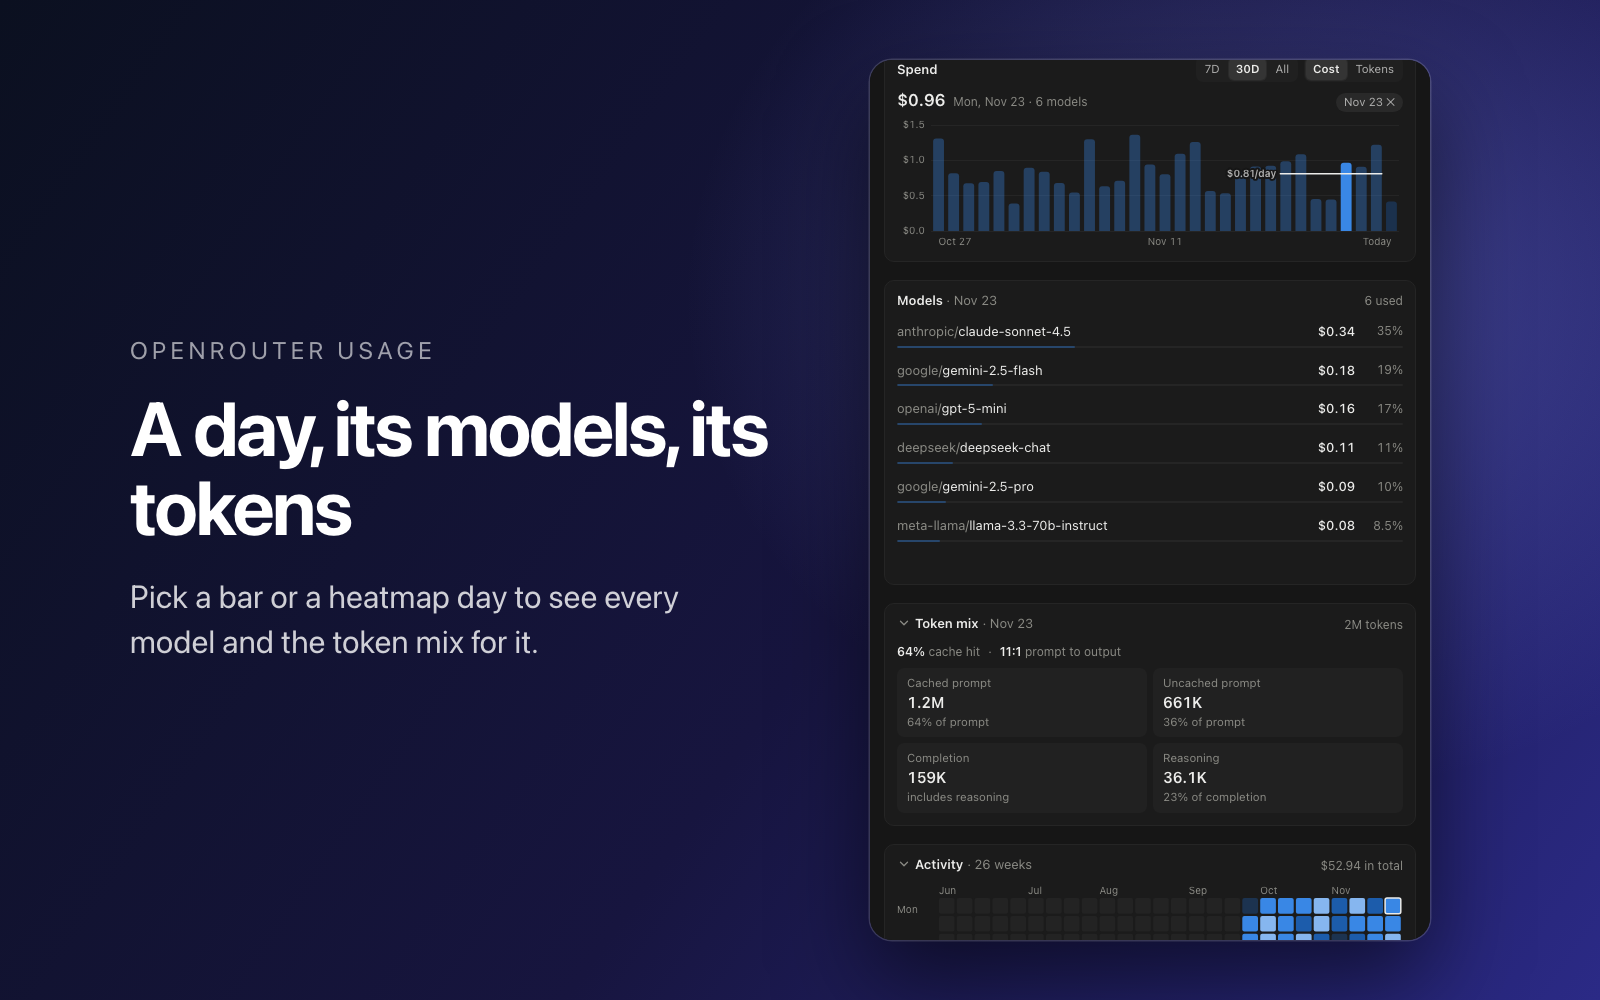
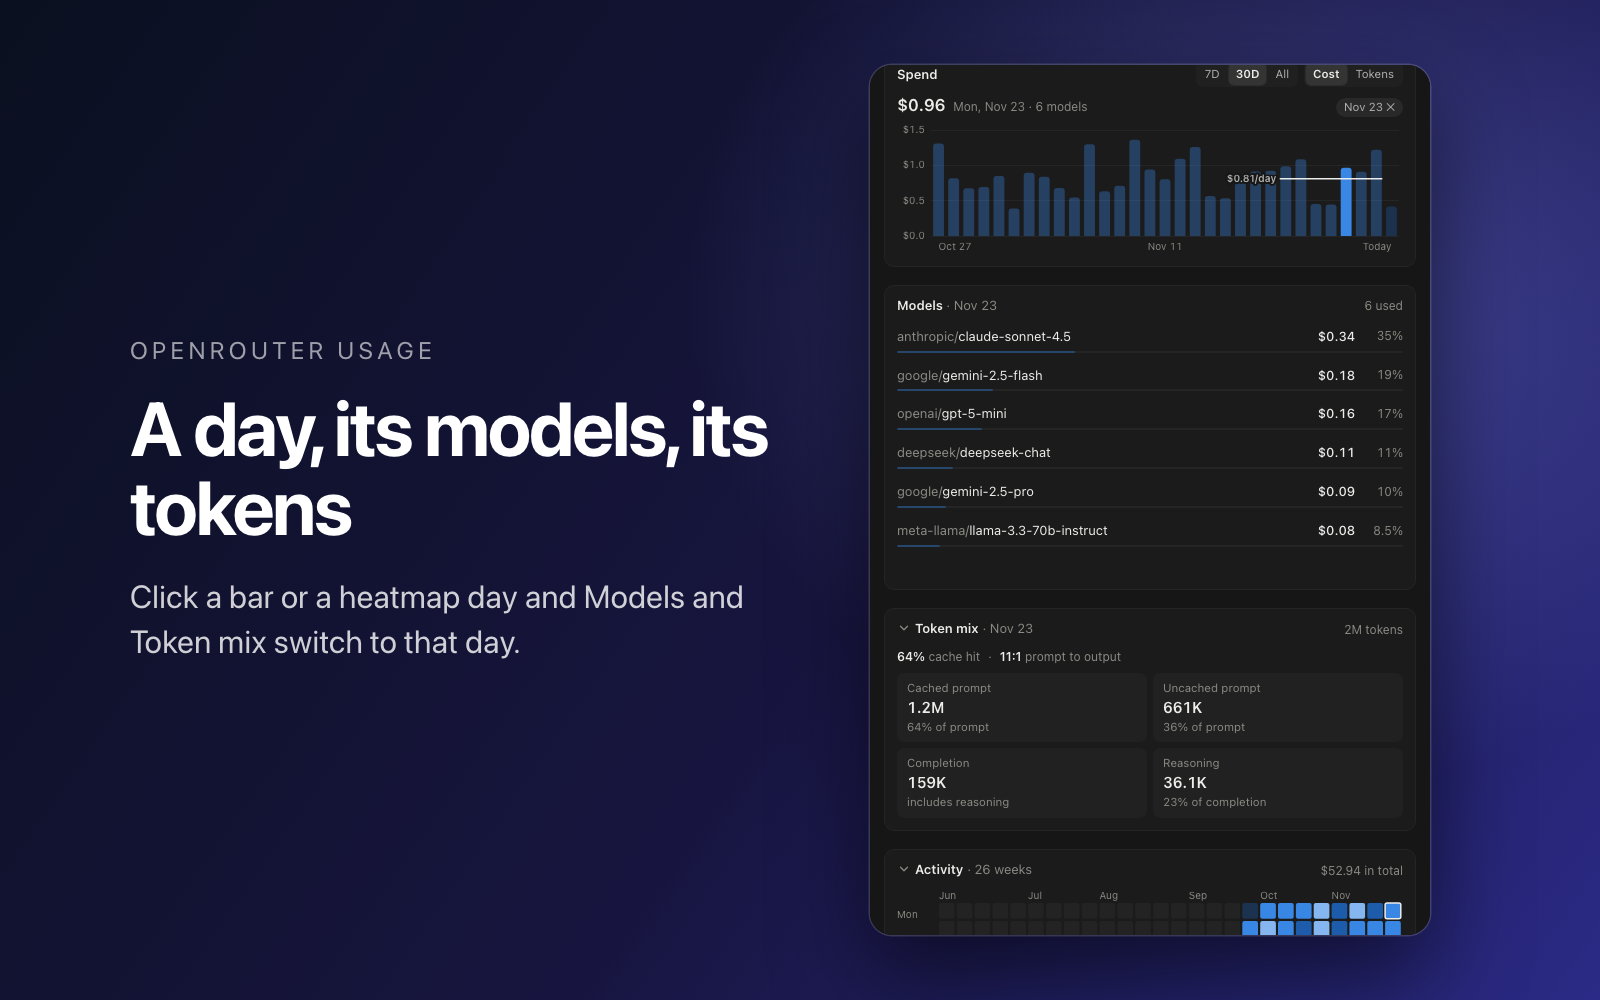
docs: refresh the 1.4.0 listing: README, changelog, screenshots and cover
The README describes the current panel (banner colours, warnings, Usage,
Keys, Settings, optional DeepSeek, today's spend in the status bar) and
the 1.3.0 and 1.4.0 changelog entries match how the features ended up.
Six new screenshots, including a DeepSeek one and gold and teal banners,
a refreshed cover, and a manifest description and captions to match.

Written by two pi workers on deepseek/deepseek-flash, reviewed and
corrected here.

diff --git a/scripts/media/shot.html b/scripts/media/shot.html
@@ -9,7 +9,7 @@
   .eyebrow { font-size: 24px; letter-spacing: .18em; text-transform: uppercase; color: rgba(255,255,255,.6); margin-bottom: 24px; }
   h1 { font-size: 76px; line-height: 1.04; letter-spacing: -.03em; font-weight: 700; }
   p { margin-top: 28px; font-size: 32px; line-height: 1.4; color: rgba(255,255,255,.8); }
-  .frame { position: absolute; right: 170px; top: 60px; width: 560px; height: 880px; border-radius: 22px; overflow: hidden; background: #111;
+  .frame { position: absolute; right: 170px; top: 65px; width: 560px; height: 870px; border-radius: 22px; overflow: hidden; background: #111;
     box-shadow: 0 0 0 1.5px rgba(255,255,255,.16), 0 40px 90px rgba(0,0,0,.55); }
   iframe { width: 100%; height: 100%; border: 0; display: block; }
 </style></head>

diff --git a/scripts/media/cover.html b/scripts/media/cover.html
@@ -30,7 +30,7 @@
   <div class="copy">
     <div class="eyebrow">Orca plugin</div>
     <h1>OpenRouter<br>Usage</h1>
-    <p class="tag">Credits left, spend, tokens, models and keys, at a glance in your sidebar.</p>
-    <div class="chips"><span class="chip">Credits &amp; burn rate</span><span class="chip">Models</span><span class="chip">API keys</span><span class="chip">Activity &amp; token mix</span></div>
+    <p class="tag">Credits and runway, spend by model and key, token mix, and an optional DeepSeek balance.</p>
+    <div class="chips"><span class="chip">Credits &amp; runway</span><span class="chip">Models &amp; tokens</span><span class="chip">API keys &amp; limits</span><span class="chip">DeepSeek balance</span></div>
   </div>
 </div></body></html>

diff --git a/README.md b/README.md
@@ -2,22 +2,27 @@
 
 ![OpenRouter Usage](images/cover.png)
 
-A sidebar dashboard for [Orca](https://orca.dev) that shows what you spend on [OpenRouter](https://openrouter.ai): credits left, spend, tokens, models and API keys.
+A sidebar dashboard for [Orca](https://orca.dev) that shows what you spend on [OpenRouter](https://openrouter.ai): credits left, spend, tokens, models and API keys, plus an optional DeepSeek balance.
 
 Requires Orca 1.4.248 or later and an OpenRouter **management key** (OpenRouter Settings, Management Keys).
 
 ## What it shows
 
-- A banner with your **credits left**, how long they last at your recent burn rate, and an **Add credits** button, in the colour you choose.
-- **Warnings** under the banner for credits running out, keys near or at their limit, expiring keys and a passed monthly budget. Each closes with an ×.
-- Three tabs:
-  - **Usage**: today and this month (with an optional monthly budget), a daily chart for 7 days, 30 days or all time in Cost or Tokens, your models, the token mix and a 26-week activity heatmap. Hover a bar to read its day; click a day, in the chart or the heatmap, to see its models and token mix. Click a model for its details.
-  - **Keys**: spend per API key with its own 7D, 30D and All switch, limit meters, and badges only for keys that need attention.
-  - **Settings**: verify, replace or disconnect your key, refresh interval, alerts, budgets, the status bar item, BYOK counting, and the banner's colour and vivid switch, with a live preview.
-- An optional **DeepSeek** balance: add a DeepSeek API key in Settings and a card shows its balance and how long it lasts. Hidden when no key is saved.
-- **CSV exports** of daily totals, models or API keys from the ⋯ menu.
-- A status bar item with what you spent today (`$4.18 today`). Hover it for each account's balance and today's spend; click it to open the panel. It turns amber or red when credits run low.
-- Notifications when credits run low or a budget is passed.
+- The **credits banner** with the **OpenRouter Usage** title, the credits left, how long they last at your recent rate, and an **Add credits** button. Its colour is a setting (purple, gold, teal, rose or graphite) with a **Vivid** switch; Settings shows a half-size live preview.
+- **Warnings** under the banner, each closable with an ×: credits running short, keys near or at their limit, keys expiring or expired, a passed monthly budget, and DeepSeek running low, used up or rejected.
+- Three tabs: **Usage**, **Keys** and **Settings**.
+- **Usage**
+  - Today and this month, with an optional monthly budget meter.
+  - A one-colour daily chart for 7D, 30D or All, in Cost or Tokens. Hover a bar for that day's total; click a bar or a heatmap day to select it.
+  - **Models** in a fixed-height box that scrolls, with each model's share; click a model for its details inline.
+  - **Token mix** as four numbers (cached prompt, uncached prompt, completion, reasoning) with the cache hit rate and the prompt-to-output ratio.
+  - A 26-week **activity heatmap**.
+  - Token mix and Activity are collapsible, closed by default, each with a one-line summary. Selecting a day switches Models and Token mix to it.
+- **Keys** has its own 7D, 30D and All switch: each key's share of spend, last use, limit meter, and badges only when something needs attention. Click a key for today, this week, this month, all time, its limit, expiry and label. Keys under 1% of spend fold behind a faded button unless they need attention; inactive keys fold under an arrow.
+- **Settings** is grouped into Account, Appearance, Alerts and budgets, Status bar and Data. Account holds OpenRouter and the optional DeepSeek key, each with **Test connection**, **Replace key** and Disconnect or Remove. CSV export is in the ⋯ menu.
+- **Optional DeepSeek**: add a DeepSeek API key and a collapsible DeepSeek card appears with its balance, spent today, days left, topped up and granted amounts, and a **Top up** link. DeepSeek's API reports only a balance, so the plugin reads it every refresh; spent today is the drop since midnight UTC and days left use the last 7 days of readings, ignoring top-ups. Without a key the card is hidden.
+- A **status bar** item showing only what you spent today (OpenRouter, plus DeepSeek when it is in USD). Its tooltip lists each account's balance and today's spend; clicking it shows or hides the right sidebar. It turns amber or red when credits run low.
+- **Notifications** when credits run low or a daily or monthly budget is passed.
 
 ## Install
 
@@ -27,11 +32,15 @@ orca plugin install Lilykos/orca-openrouter-usage
 
 Orca shows what the plugin is allowed to do and asks you to approve it.
 
-Existing marketplace installs update through Orca's marketplace after its catalog indexes the new release. Versions 1.3.0 and 1.4.0 add no capabilities, but Orca may ask you to review the new banner settings. Your key and settings stay with the existing install.
+Existing marketplace installs update through Orca's marketplace after its catalog indexes the new release. Versions 1.3.0 and 1.4.0 add no capabilities, but Orca may ask you to review what is new: the banner colour and Vivid settings (1.3.0) and the status bar's click action (1.4.0). Your key and settings stay with the existing install.
 
 ## Setup
 
-Open the panel and paste your management key; it is verified with OpenRouter before it is saved. The key is stored in the plugin's encrypted secrets (OS keyring) and never leaves the worker process; the panel never sees it. The Settings tab has: connection test, replace or disconnect the key, refresh interval, low-balance alert, daily budget, notifications, status bar item, and whether BYOK usage counts in spend.
+Open the panel and paste your management key; it is verified with OpenRouter before it is saved. The key is stored in Orca's encrypted secrets (OS keyring) and never leaves the worker process; the panel never sees it. Under Settings → Account you can test the connection, replace the key or disconnect it.
+
+A DeepSeek key is optional and added the same way: Settings → Account → DeepSeek, **Add DeepSeek key**. It is verified once, stored in Orca's encrypted secrets and used only to read the balance.
+
+The rest of Settings holds the refresh interval, the low-balance and daily and monthly budget alerts, notifications, whether the status bar shows today's spend, whether BYOK usage counts, and the banner's colour and Vivid switch.
 
 ## Data and limits
 
@@ -47,12 +56,15 @@ All numbers come from OpenRouter's `/credits`, `/activity` and `/keys` endpoints
 ### DeepSeek (optional)
 
 - The DeepSeek key is verified once, stored in Orca's encrypted secrets, and only used for `GET https://api.deepseek.com/user/balance`.
-- DeepSeek's API reports a balance, not usage history, so there is no per-model or daily breakdown. Days left come from balance readings over the last 7 days, ignoring top-ups, and need about 12 hours of readings.
+- DeepSeek's API reports a balance, not usage history, so there is no per-model or daily breakdown. The balance is read at every refresh.
+- **Spent today** is the drop in the balance since midnight UTC, ignoring top-ups, so it is approximate.
+- **Days left** come from balance readings over the last 7 days, ignoring top-ups, and need about 12 hours of readings.
 - Removing the key in Settings forgets it and every reading.
 
 ## If something looks wrong
 
 - **"OpenRouter rejected this key"**: the key is mistyped or revoked. Paste a new management key in Settings.
+- **"DeepSeek rejected this key"**: replace the DeepSeek key under Settings → Account.
 - **"Can't reach OpenRouter"**: you are offline or OpenRouter is down; the plugin keeps the last data and retries.
 - **"No secure key store"** (Linux): install a keyring service such as gnome-keyring, then save the key again.
 - Days (the daily chart, the heatmap, Today) follow **UTC**; Settings shows when a new day starts for you.

diff --git a/CHANGELOG.md b/CHANGELOG.md
@@ -2,14 +2,12 @@
 
 ## 1.4.0
 
-- Optional **DeepSeek** balance. Add a DeepSeek API key under Settings → Account, and a DeepSeek card appears on Usage. It shows your balance per currency (topped up and granted), how many days it lasts at your recent rate, and a Top up link. Without a key nothing DeepSeek-related is shown.
-- DeepSeek only reports a balance, not usage, so the rate comes from balance readings taken at each refresh over the last 7 days. Top-ups are ignored, and a rate needs about 12 hours of readings.
-- Settings → Account lists OpenRouter and DeepSeek by name, each with Test connection, Replace key and Disconnect or Remove. Testing DeepSeek also takes a fresh balance reading.
-- The DeepSeek card folds under an arrow with "balance left · spent today" in its header; open, it shows balance, spent today and days left side by side.
+- Optional **DeepSeek** account. Add a DeepSeek API key under Settings → Account and a collapsible DeepSeek card appears on Usage: its header shows the balance left and today's spend, and open it shows the balance, spent today and days left side by side, with the topped-up and granted amounts and a Top up link. Without a key nothing DeepSeek-related is shown.
+- DeepSeek's API reports a balance, not usage, so the plugin reads the balance every refresh. Spent today is the drop since midnight UTC, ignoring top-ups, so it is approximate; days left use the last 7 days of readings and need about 12 hours of readings.
 - Warnings under the banner when the DeepSeek balance is used up, has about 3 days or less left, or the key is rejected.
+- Settings → Account lists OpenRouter and DeepSeek by name, each with Test connection, Replace key and Disconnect or Remove. Testing DeepSeek also takes a fresh balance reading.
 - The DeepSeek key is verified, stored in Orca's encrypted secrets and only used for `GET https://api.deepseek.com/user/balance`. Removing it forgets the key and every reading.
-- The status bar shows only what you spent today (OpenRouter, plus DeepSeek when it is in dollars). Hover it for each account's balance and today's spend. Click it to show or hide the panel. It turns amber or red when either account runs low. The old "Next to credits" choice is gone.
-- DeepSeek's spend today is the drop in its balance since UTC midnight, ignoring top-ups, so it is approximate.
+- The status bar shows only what you spent today: OpenRouter, plus DeepSeek when it is in dollars. Hover it for each account's balance and today's spend; click it to show or hide the right sidebar. It turns amber or red when either account runs low. The old "Next to credits" choice is gone.
 - Fixed: changing a setting right after opening Settings could be undone by the settings loading in.
 
 ## 1.3.0
@@ -17,18 +15,17 @@
 A redesign: one answer first, detail on demand.
 
 - Three tabs instead of five: **Usage**, **Keys** and **Settings**. The Ledger and the separate Models tab are folded into Usage.
-- The banner stays, quieter, with the **OpenRouter Usage** title in Outfit, a display font embedded in the panel: credits left, how long they last at your recent rate, and an **Add credits** button.
-- Warnings sit under the banner, each with an × to close it: credits running out, keys near or at their limit, keys expiring or expired, and a monthly budget being passed. A closed warning comes back only when something changes, such as a new day or a new month.
+- The banner keeps the **OpenRouter Usage** title in Outfit, a display font embedded in the panel, with the credits left, how long they last at your recent rate, and an **Add credits** button. Its colour is a setting (purple, gold, teal, rose or graphite) and **Vivid** makes it bold, with a half-size live preview beside the controls in Settings. Both are regular plugin settings, so they also appear in Orca's settings. When credits run short, the banner keeps your colour and shows a warning icon; the warnings below it carry the details.
+- Warnings sit under the banner, each with an × to close it: credits running out, keys near or at their limit, keys expiring or expired, and a monthly budget being passed. A closed warning comes back only when its details change, such as a new day or month or a new key problem.
 - **Usage** leads with Today and this month (with budget progress), then a one-colour daily chart with your 7-day burn drawn over the days it averages. Hover a bar to read that day's total; click it to select the day, and the Models list and Token mix switch to it.
 - Spend, Models, Token mix and Activity each sit in a quiet card, so the page reads as a few calm blocks.
 - Models sit in a fixed-height box that scrolls inside, with every model listed, so the page does not jump around. Click a model to open its details inline (requests, cost per request, change against the previous period, tokens, cache hit, cost per 1M tokens) and see its share in every bar.
-- **Token mix** is now four numbers that follow the range or the selected day: cached prompt, uncached prompt, completion and reasoning, with the cache hit rate and the prompt-to-output ratio.
+- **Token mix** is four numbers that follow the range or the selected day: cached prompt, uncached prompt, completion and reasoning, with the cache hit rate and the prompt-to-output ratio.
 - Token mix and Activity start closed, each with an arrow to open it and a one-line summary while closed (cache hit, total). What you open stays open.
 - The **activity heatmap** covers 26 weeks, follows Cost or Tokens, and selects a day when you click it, widening the range when needed.
-- **Keys** follows the same design: a card with its own 7D, 30D and All switch, keys listed like models with their share of spend, badges only when a key needs attention, and an amber limit line when one is near its limit. Click a key for today, this week, this month, all time, its limit, expiry and label. Keys under 1% of the range's spend fold behind a faded button, unless they need attention; inactive keys fold away under an arrow.
+- **Keys** follows the same design: a card with its own 7D, 30D and All switch, keys listed with their share of spend, badges only when a key needs attention, and an amber limit line when one is near its limit. Click a key for today, this week, this month, all time, its limit, expiry and label. Keys under 1% of the range's spend fold behind a faded button unless they need attention; inactive keys fold away under an arrow.
 - Settings keep the same options, grouped into Account, Appearance, Alerts and budgets, Status bar and Data. CSV export moved to the ⋯ menu.
 - The page no longer shows a scrollbar that comes and goes and shifts the layout.
-- Choose the banner's **colour** (purple, gold, teal, rose or graphite) and switch **Vivid** on for a bold version, with a half-size live preview beside the controls in Settings. Both are regular plugin settings, so they also appear in Orca's settings. When credits run short, the banner keeps your colour and shows a warning icon; the warnings below it carry the details.
 - Follows Orca's light and dark themes for the charts and accents as well as the surfaces.
 - No new permissions. Orca may ask you to review the new banner settings when you update.
 

diff --git a/PLAN.md b/PLAN.md
@@ -2,7 +2,7 @@
 
 A sidebar dashboard for [Orca](https://onorca.dev) that shows what you spend on OpenRouter: credits left, spend, tokens, models, and API keys. It is modelled on the look of **Usage Insights** (`etherll.usage-insights`, installed locally) and borrows the "ledger" ideas of the iOS **AI Token Usage Tracker** app.
 
-Status: v1.4.0 release (https://github.com/Lilykos/orca-openrouter-usage, tag `v1.4.0`, topic `orca-plugin`). 1.4.0 adds an optional DeepSeek balance. 1.3.0 redesigns the panel into Usage, Keys and Settings, with closable warnings, day selection, a four-number token mix and a per-key range. Includes spend comparisons, CSV exports, monthly budgets and key health; see `tasks/plan.md` and `CHANGELOG.md`. Install: `orca plugin install Lilykos/orca-openrouter-usage`.
+Status: v1.4.0 (https://github.com/Lilykos/orca-openrouter-usage, topic `orca-plugin`). 1.3.0 redesigns the panel into Usage, Keys and Settings, with closable warnings, day selection, a four-number token mix, a per-key range and banner colour options. 1.4.0 adds an optional DeepSeek balance, warnings for it, and a status bar that shows only today's spend. Includes spend comparisons, CSV exports, monthly budgets and key health; see `tasks/plan.md` and `CHANGELOG.md`. Install: `orca plugin install Lilykos/orca-openrouter-usage`.
 
 ## 1. Decisions so far
 
